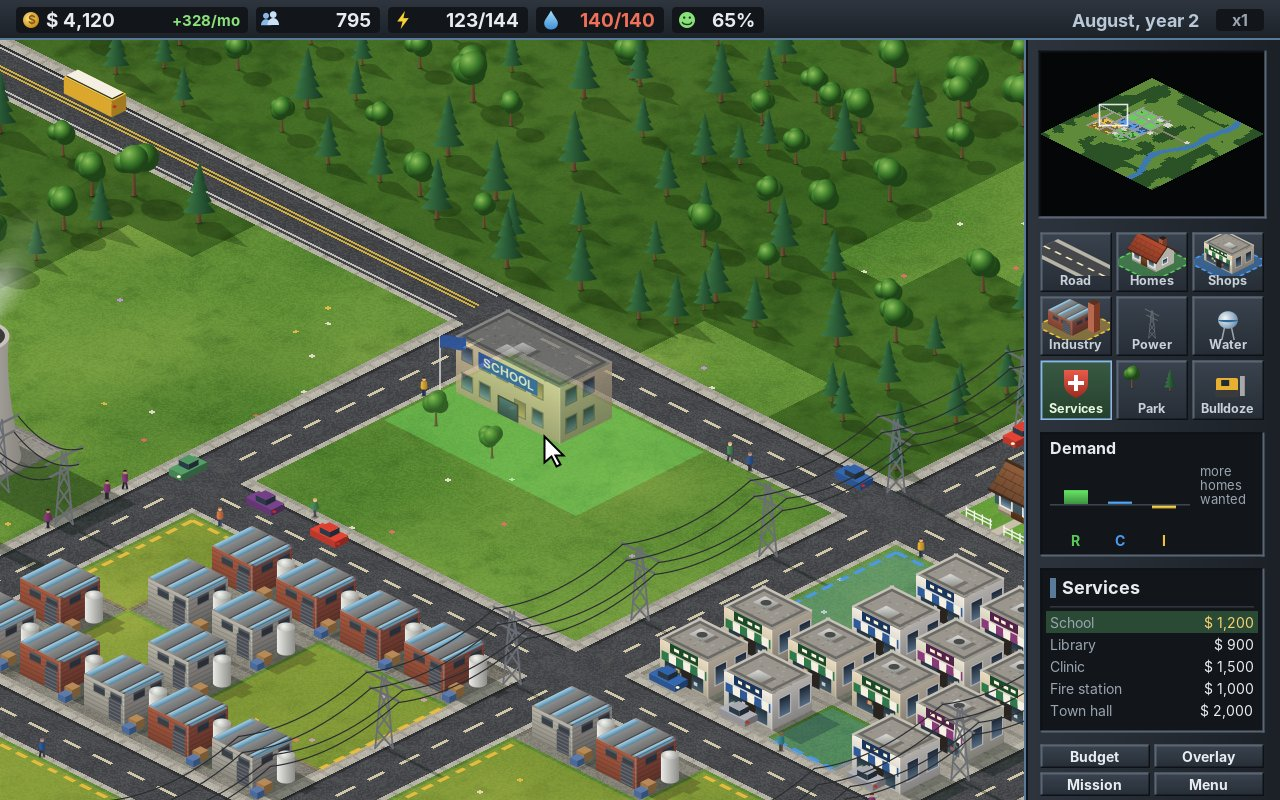
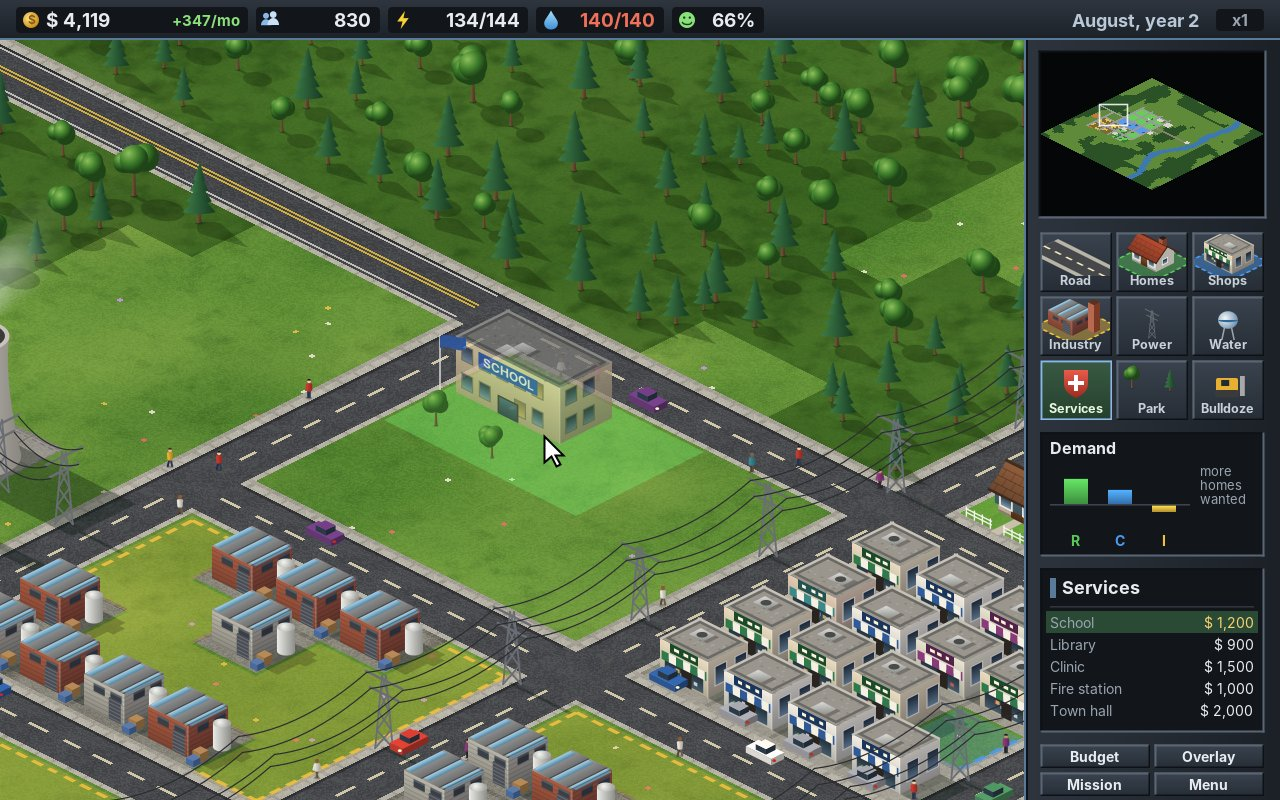
Chapter 33: offices as clean jobs of a grown town, downtown screenshot; pin Town ec87350
Claude-Session: https://claude.ai/code/session_01GzD486T9jFmNZwu9bANtNA

diff --git a/docs/handbook/chapters/33-town.md b/docs/handbook/chapters/33-town.md
@@ -167,6 +167,13 @@ Three numbers, one per zone, from -1 to 1, decide what the town wants. They pull
 --8<-- "amade-town-game/src/main/java/eu/amadeos/games/town/domain/Game.java:demand"
 ```
 
+A grown town wants something more: offices. Above 300 people, every further person asks for a quarter of an office job, counted with the shops, because offices grow in the shop zone as its third level, the office block and the glass tower. They are clean jobs, so the town wants a little less industry for them. Shops alone would never get there: at 1,000 people the town has all the shops it buys from, and shop demand turns negative. Offices also ask for less land value than tall homes, 40 instead of 55, so they rise by the parks, the clinic and the town hall.
+
+<figure markdown>
+![Offices downtown](images/town/downtown.jpg){ width="600" }
+<figcaption>Mission 1 played on to its fifth year: two glass towers and office blocks between the shops, by the clinic and its park. The computer's plan built more wind turbines, a second coal plant and a third pump after the win, since power, not demand, is what holds a grown town back.</figcaption>
+</figure>
+
 Each number moves halfway to its new value every month, so demand does not jump when a block grows at once. Taxes above the usual 9 % push every zone down, and a happy town pulls people in. How happy the people are is worked out from what reaches their homes: services, parks, clean air, power, water, enough jobs and fair taxes, each weighed by how many people live on the lot.
 
 ```java title="amade-town-game · domain/Game.java"
@@ -222,7 +229,7 @@ The test lets the computer build a town and then follows the walkers for twenty 
 
 ## Step 8: The computer builds
 
-The title screen shows a town the computer builds, and `GameTest` lets it build mission 1 until it is won. As in Colony the plan is a text file, one step every few seconds, as a player would make them with the mouse: lay a road, zone a block, build a plant, run a line, build a pump. A step the town cannot pay for waits until the money is there.
+The title screen shows a town the computer builds, and `GameTest` lets it build mission 1 until it is won. As in Colony the plan is a text file, one step every few seconds, as a player would make them with the mouse: lay a road, zone a block, build a plant, run a line, build a pump. A step the town cannot pay for waits until the money is there. After the win, when the player could keep building, the plan adds power and water, so the title screen's town keeps growing into offices.
 
 ```java title="amade-town-game · domain/Planner.java"
 --8<-- "amade-town-game/src/main/java/eu/amadeos/games/town/domain/Planner.java:update"
@@ -306,7 +313,7 @@ The layer puts the view at whole screen pixels, so the rest of the town is drawn
 
 ### Lots and buildings
 
-Every lot has four looks for each level of each zone, chosen by its tile so a street is not a row of copies: cottages and row houses with hedges, apartment blocks; a corner shop, shops with flats above them, offices and a glass tower; workshops with tanks, a brick factory with its chimney, a works with a banded stack. All of them are drawn from boxes, gabled roofs, windows and awnings through the projection's transforms. The order inside a picture matters as much as between pictures: a chimney stands on the far slope of its roof, so it is drawn before the near slope, which hides its foot, and its top again after the ridge's line.
+Every lot has four looks for each level of each zone, chosen by its tile so a street is not a row of copies: cottages and row houses with hedges, apartment blocks; a corner shop, shops with flats above them, an office block and a glass tower; workshops with tanks, a brick factory with its chimney, a works with a banded stack. All of them are drawn from boxes, gabled roofs, windows and awnings through the projection's transforms. The order inside a picture matters as much as between pictures: a chimney stands on the far slope of its roof, so it is drawn before the near slope, which hides its foot, and its top again after the ridge's line.
 
 A lot's front faces +y, but its street may run along any side. A car parked in the garden, or a lorry in the yard, would then stand behind a fence or between two houses with no way out. So the lots that park one are drawn twice, with the car and a drive through a gap in the fence, and without, and the painter takes the first only where a road runs along the front.
 
